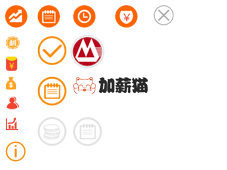
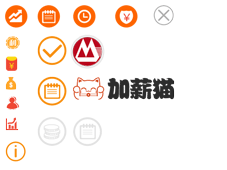
更新小猫

Changed region(s): [[0.3084, 0.4412, 0.7709, 0.5882]]

diff --git a/css/jxm/main.css b/css/jxm/main.css
@@ -1525,7 +1525,7 @@ text-align: right}
 .ttl_buy_two_tip{width: 85%;margin: 0 auto;text-align: center;}
 .ttl_buy_two_tip .head{padding: 30px 0;font-size: 2.5rem;}
 .ttl_buy_two_tip .list{color: #9b9b9b;line-height: 2;font-size: 1.4rem;}
-.ttl_buy_two_tip .list .cat{width: 84px;height: 26px;margin: 10px auto 0 auto;background: url(../../images/ttl_icon.png) -297px -241px;}
+.ttl_buy_two_tip .list .cat{width: 106px;height: 28px;margin: 15px auto 0 auto;background: url(../../images/ttl_icon.png) -296px -241px;}
 .ttl_buy_two_action{position: fixed;bottom: 0;left: 0;width: 100%;}
 .ttl_buy_two_action input{height: 42px;display: inline-block; width: 49%; font-size: 1.8rem;background: #fff;}
 .ttl_buy_two_action .disagree{color: #9b9b9b;}

diff --git a/js/jxm/views/ttl_buy_one.js b/js/jxm/views/ttl_buy_one.js
@@ -31,6 +31,7 @@ define(function(require, exports, module) {
             self.initBuyPage();
 
             if(self.isAgreeAction==1 && self.isagreedData!=null){
+                $("#imoney_num").val(self.isagreedData.amountVal);
                 //进行数据传递
                 self.goBuyPagePost(self.isagreedData);
                 sessionStorage.removeItem('isagreedAction');
